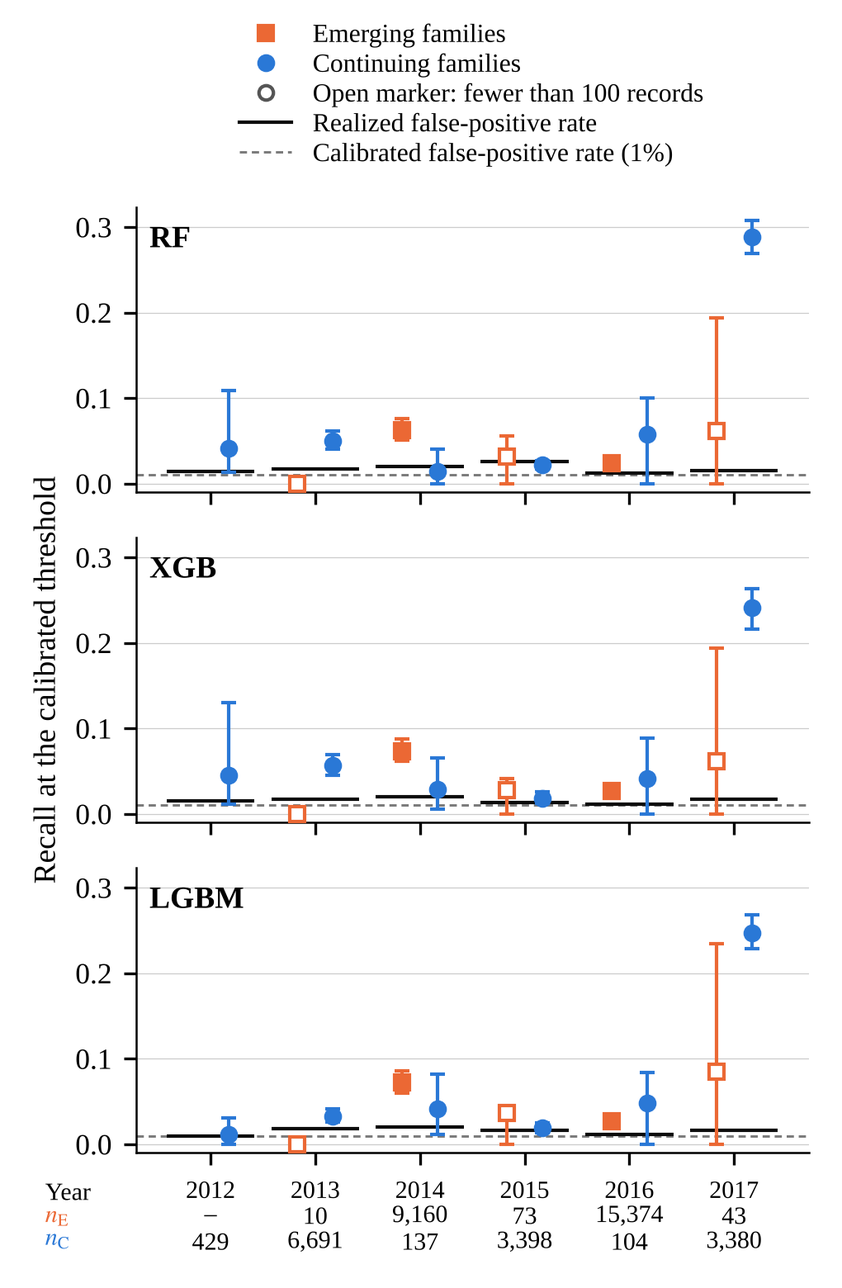
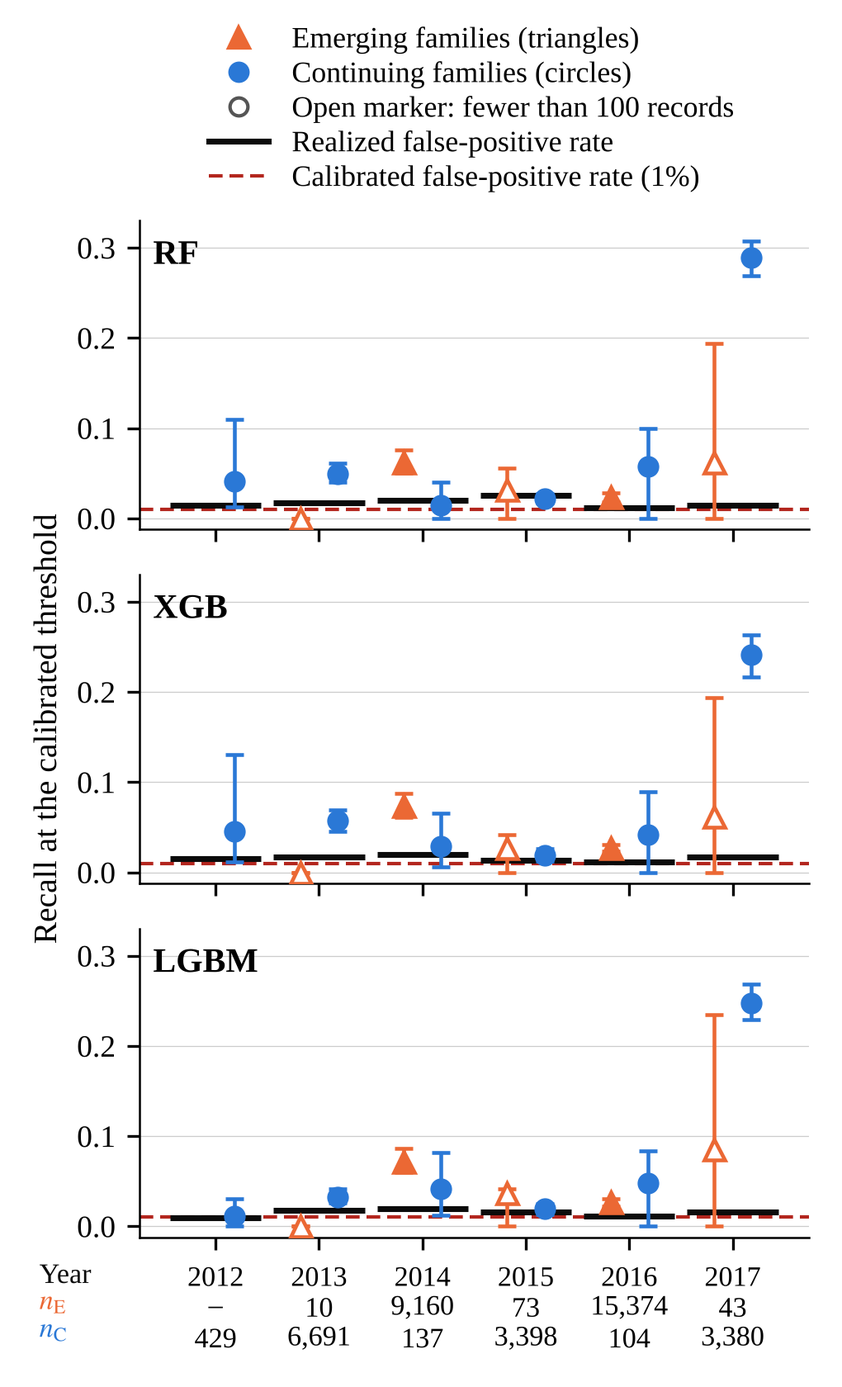
Final pre-submission revision: table layout, Fig. 5 legibility, clean-room check script
- Table XI in two panels (fixed boundary; pooled over six yearly origins) with intervals for every column
- Table VIII separates leak injection from address purge; Table IX reports the training partition in one column
- Table XIII uses the terms alerts, true alerts, false alerts; Table XV reports paired differences in units of 0.001
- Fig. 5: larger labels, triangles and circles for emerging and continuing families, calibrated rate in red
- scripts/cleanroom_check.sh makes the reproduction check repeatable

Claude-Session: https://claude.ai/code/session_01283w3BMNwE33DHc1dBmUwt

diff --git a/src/make_tables_figures.py b/src/make_tables_figures.py
@@ -83,28 +83,29 @@ def figures(FIG):
     # Fig. 5: combined protocol, recall for emerging and continuing families against the realized FPR, three tree ensembles,
     # pooled-bootstrap intervals; marker fill encodes the size of the group, tick labels give the number of records per group
     from matplotlib.lines import Line2D; plt.rcParams['mathtext.fontset'] = 'stix'
-    fig, axs = plt.subplots(3, 1, figsize=(3.4, 5.2), sharex=True, sharey=True); xs = np.arange(len(YEARS))
+    CAL = '#b3261e'      # calibrated FPR (dashed, red) against realized FPR (solid, black)
+    fig, axs = plt.subplots(3, 1, figsize=(3.4, 5.6), sharex=True, sharey=True); xs = np.arange(len(YEARS))
     for ax, mo in zip(axs, ENS):
-        ax.axhline(0.01, color='#7a7a7a', lw=0.7, ls=(0, (3, 2)), zorder=1)
-        for off, col, ncol, c, mk in ((-0.17, 'recall_emerging', 'n_emerging', COL[1], 's'), (0.17, 'recall_continuing', 'n_continuing', COL[0], 'o')):
+        ax.axhline(0.01, color=CAL, lw=1.0, ls=(0, (4, 2)), zorder=1)
+        for off, col, ncol, c, mk, ms_ in ((-0.18, 'recall_emerging', 'n_emerging', COL[1], '^', 6.0), (0.18, 'recall_continuing', 'n_continuing', COL[0], 'o', 5.2)):
             for i, t_ in enumerate(YEARS):
                 nn = cb(t_, mo, 'notime', ncol)
                 if nn <= 0: continue
                 v = cb(t_, mo, 'notime', col); lo, hi = cci(t_, mo, 'notime', col); big = nn >= 100
-                ax.errorbar(i + off, v, yerr=[[max(v - lo, 0)], [max(hi - v, 0)]], fmt=mk, ms=4.2, color=c, ecolor=c, elinewidth=1.0, capsize=2.2,
-                            mfc=c if big else 'white', mec=c, mew=1.0, zorder=3)
-        ax.hlines([cb(t_, mo, 'notime', 'fpr') for t_ in YEARS], xs - 0.42, xs + 0.42, color=INK, lw=1.0, zorder=2)
-        ax.text(0.02, 0.86, mo, transform=ax.transAxes, fontsize=9, fontweight='bold'); grid(ax); ax.set_xticks(xs); ax.set_ylim(bottom=-0.01)
+                ax.errorbar(i + off, v, yerr=[[max(v - lo, 0)], [max(hi - v, 0)]], fmt=mk, ms=ms_, color=c, ecolor=c, elinewidth=1.1, capsize=2.6,
+                            mfc=c if big else 'white', mec=c, mew=1.1, zorder=3)
+        ax.hlines([cb(t_, mo, 'notime', 'fpr') for t_ in YEARS], xs - 0.44, xs + 0.44, color=INK, lw=1.7, zorder=2)
+        ax.text(0.02, 0.86, mo, transform=ax.transAxes, fontsize=10, fontweight='bold'); grid(ax); ax.set_xticks(xs); ax.set_ylim(-0.012, 0.33); ax.set_yticks([0, 0.1, 0.2, 0.3])
+        ax.tick_params(axis='y', labelsize=9)
     lab_ = [f"{t_}\n{n(cb(t_, best, 'notime', 'n_emerging')) if cb(t_, best, 'notime', 'n_emerging') > 0 else '–'}\n{n(cb(t_, best, 'notime', 'n_continuing'))}" for t_ in YEARS]
-    axs[2].set_xticklabels(lab_, fontsize=7.2, linespacing=1.15)
-    axs[2].text(-0.135, -0.105, 'Year', transform=axs[2].transAxes, fontsize=7.2, ha='left', va='top')
-    axs[2].text(-0.135, -0.185, '$n_\\mathrm{E}$', transform=axs[2].transAxes, fontsize=7.2, ha='left', va='top', color=COL[1])
-    axs[2].text(-0.135, -0.265, '$n_\\mathrm{C}$', transform=axs[2].transAxes, fontsize=7.2, ha='left', va='top', color=COL[0])
-    axs[1].set_ylabel('Recall at the calibrated threshold')
-    hd = [Line2D([], [], marker='s', color=COL[1], ls='none', ms=4.2), Line2D([], [], marker='o', color=COL[0], ls='none', ms=4.2),
-          Line2D([], [], marker='o', color='#555555', mfc='white', ls='none', ms=4.2), Line2D([], [], color=INK, lw=1.0), Line2D([], [], color='#7a7a7a', lw=0.7, ls=(0, (3, 2)))]
-    fig.legend(hd, ['Emerging families', 'Continuing families', 'Open marker: fewer than 100 records', 'Realized false-positive rate', 'Calibrated false-positive rate (1%)'],
-               frameon=False, ncol=1, loc='upper center', fontsize=7.6, bbox_to_anchor=(0.56, 1.0), labelspacing=0.22)
+    axs[2].set_xticklabels(lab_, fontsize=8.2, linespacing=1.2)
+    for yy, tx, cc in ((-0.085, 'Year', INK), (-0.172, '$n_\\mathrm{E}$', COL[1]), (-0.262, '$n_\\mathrm{C}$', COL[0])):
+        axs[2].text(-0.15, yy, tx, transform=axs[2].transAxes, fontsize=8.2, ha='left', va='top', color=cc)
+    axs[1].set_ylabel('Recall at the calibrated threshold', fontsize=9.5)
+    hd = [Line2D([], [], marker='^', color=COL[1], ls='none', ms=6.0), Line2D([], [], marker='o', color=COL[0], ls='none', ms=5.2),
+          Line2D([], [], marker='o', color='#555555', mfc='white', ls='none', ms=5.2), Line2D([], [], color=INK, lw=1.7), Line2D([], [], color=CAL, lw=1.0, ls=(0, (4, 2)))]
+    fig.legend(hd, ['Emerging families (triangles)', 'Continuing families (circles)', 'Open marker: fewer than 100 records', 'Realized false-positive rate', 'Calibrated false-positive rate (1%)'],
+               frameon=False, ncol=1, loc='upper center', fontsize=8.6, bbox_to_anchor=(0.56, 1.0), labelspacing=0.25)
     fig.tight_layout(rect=(0, 0, 1, 0.865)); fig.savefig(FIG + 'f5.png', dpi=300); plt.close(fig)
 
 
@@ -134,48 +135,53 @@ def tables():
     rows7 += [['*Address-disjoint split*'] + [''] * 7] + [mrow('address', k) for k in MODELS]
     rows7 += [['*Temporal split*'] + [''] * 7, ['Majority', f3(1 - pi_T), '–', '0.000', '0.000', '0.000', f3(pi_T), '0.500'], ['Random', '0.500', f3(pi_T), '0.500', f3(f1_rand_T), '0.000', f3(pi_T), '0.500']] + [mrow('temporal', k) for k in MODELS]
     T['metrics'] = dict(cap='All Metrics for All Classifiers under the Main Protocols (All Features, Mean over Repetitions)', header=['Model', 'Acc.', 'Prec.', 'Rec.', 'F1', 'MCC', 'PR-AUC', 'ROC-AUC'], rows=rows7,
-                        widths=[1010, 540, 540, 540, 540, 540, 590, 620], opts=dict(sz=15),
+                        widths=[1040, 560, 560, 560, 560, 560, 580, 580], opts=dict(sz=16),
                         note='Acc. = accuracy; Prec. = precision; Rec. = recall. Precision, recall, F1, and MCC are computed at a threshold of 0.5. Majority = every record labeled white; Random = uniform random scores (expected values). The baselines of the address-disjoint split equal those of the random split to three decimals.')
     IJ, IJt, PGa, PGb = N['inject_all'], N['inject_notime'], N['purge_all'], N['purge_notime']
     def cis(d, lo, hi): return f'{sg(d, 3)} ({sg(lo, 3)} to {sg(hi, 3)})'
     def pp(p): return '< 0.001' if p < 0.001 else f'{p:.2f}'
-    T['overlap'] = dict(cap='Paired Tests of the Effect of Address Overlap on PR-AUC (XGB, Ten Splits)', header=['Experiment / features', 'With overlap', 'Without', 'Difference (95% CI)', '*p*'], widths=[1000, 620, 620, 1960, 700], opts=dict(sz=15), rows=[
-        ['Injection / All', f3(IJ['leaky']), f3(IJ['clean']), cis(IJ['mean'], *IJ['ci']), pp(IJ['p'])],
-        ['Injection / Topo.', f3(IJt['leaky']), f3(IJt['clean']), cis(IJt['mean'], *IJt['ci']), pp(IJt['p'])],
-        ['Purge / All', f3(PGa['full']), f3(PGa['purged']), cis(PGa['mean'], *PGa['ci']), pp(PGa['p'])],
-        ['Purge / Topo.', f3(PGb['full']), f3(PGb['purged']), cis(PGb['mean'], *PGb['ci']), pp(PGb['p'])]],
-        note=f'Both models of a pair are scored on identical test records. Injection (leak injection): same-address records are added to the training partition of an address-disjoint split, so both models are trained on repeated addresses ({WORD[IJt["n"]]} splits for the topological features). Purge (address purge): same-address records are deleted from the training partition of a random split, which also removes most repeated addresses from training. Difference = with overlap minus without, averaged over the splits; the 95% CI is the *t*-interval of the mean paired difference, so it describes the variation between splits; paired *t*-test.')
-    rows8 = [[fam(k), n(v.n_total), n(v.n_fit), n(v.n_val), n(v.n_test), f3(v.recall_known) + '\n(' + ci3(zci(k, 'known')) + ')', f3(v.recall_zero_day) + '\n(' + ci3(zci(k, 'withheld')) + ')'] for k, v in zf.iterrows()]
-    rows8 += [['Pooled, Eq. (2)', n(zf.n_total.sum()), n(zf.n_fit.sum()), n(zf.n_val.sum()), n(zf.n_test.sum()), f3(zk) + '\n(' + ci3(N['z_pool_known_ci']) + ')', f3(zz) + '\n(' + ci3(N['z_pool_zero_ci']) + ')'],
-              ['Macro average', '', '', '', '', f3(N['z_macro_known']) + '\n(' + ci3(N['z_macro_known_ci']) + ')', f3(N['z_macro_zero']) + '\n(' + ci3(N['z_macro_zero_ci']) + ')']]
-    T['withheld'] = dict(cap='Withheld-Family Protocol: Records per Family and Recall (95% CI) at a Validation-Calibrated 1% FPR', header=['Family', 'Total', 'Fit', 'Val.', 'Test', 'Known', 'Withheld'], rows=rows8,
-                         widths=[1050, 520, 520, 430, 520, 930, 930], opts=dict(sz=15),
-                         note=f'Total = ransomware records of the family in the complete dataset; Fit, Val., Test = mean number in the fitting, validation, and test parts over {WORD[N["z_seeds"]]} address-disjoint splits. Every test partition also contains about {n(N["z_white_test"])} white records, which determine the realized FPR. Known = family present in the fitting part; Withheld = family removed from it. Recall is the mean over the splits; the 95% CI is the percentile interval of the address-level bootstrap replicates pooled over the splits.')
+    T['overlap'] = dict(cap='Paired Tests of the Effect of Address Overlap on PR-AUC (XGB, Ten Splits)', header=['Features', 'With overlap', 'Without overlap', 'Difference (95% CI)', '*p*'], widths=[1000, 680, 760, 1860, 700], opts=dict(sz=16), rows=[
+        ['*Leak injection: same-address records added to the training partition of an address-disjoint split*', '', '', '', ''],
+        ['All', f3(IJ['leaky']), f3(IJ['clean']), cis(IJ['mean'], *IJ['ci']), pp(IJ['p'])],
+        ['Topological', f3(IJt['leaky']), f3(IJt['clean']), cis(IJt['mean'], *IJt['ci']), pp(IJt['p'])],
+        ['*Address purge: same-address records deleted from the training partition of a random split*', '', '', '', ''],
+        ['All', f3(PGa['full']), f3(PGa['purged']), cis(PGa['mean'], *PGa['ci']), pp(PGa['p'])],
+        ['Topological', f3(PGb['full']), f3(PGb['purged']), cis(PGb['mean'], *PGb['ci']), pp(PGb['p'])]],
+        note=f'Both models of a pair are scored on identical test records. Leak injection changes only the overlap: the address-disjoint training records are kept and the same-address records are added, so the difference measures the effect of overlap ({WORD[IJt["n"]]} splits for the topological features). Address purge changes the overlap and the training population at the same time, because the deletion removes most repeated-address ransomware records from training; its difference is therefore not a measure of leakage. Difference = with overlap minus without, averaged over the splits; the 95% CI is the *t*-interval of the mean paired difference, so it describes the variation between splits; paired *t*-test.')
+    rows8 = [[fam(k), n(v.n_total), n(v.n_fit + v.n_val), n(v.n_test), f3(v.recall_known) + '\n(' + ci3(zci(k, 'known')) + ')', f3(v.recall_zero_day) + '\n(' + ci3(zci(k, 'withheld')) + ')'] for k, v in zf.iterrows()]
+    rows8 += [['Pooled, Eq. (2)', n(zf.n_total.sum()), n(zf.n_fit.sum() + zf.n_val.sum()), n(zf.n_test.sum()), f3(zk) + '\n(' + ci3(N['z_pool_known_ci']) + ')', f3(zz) + '\n(' + ci3(N['z_pool_zero_ci']) + ')'],
+              ['Macro average', '–', '–', '–', f3(N['z_macro_known']) + '\n(' + ci3(N['z_macro_known_ci']) + ')', f3(N['z_macro_zero']) + '\n(' + ci3(N['z_macro_zero_ci']) + ')']]
+    T['withheld'] = dict(cap='Withheld-Family Protocol: Records per Family and Recall (95% CI) at a Validation-Calibrated 1% FPR', header=['Family', 'Total', 'Train', 'Test', 'Recall, known', 'Recall, withheld'], rows=rows8,
+                         widths=[1130, 570, 570, 570, 1080, 1080], opts=dict(sz=16),
+                         note=f'Total = ransomware records of the family in the complete dataset; Train, Test = mean number in the training partition (fitting and validation parts, divided 80%/20% by address) and in the test partition over {WORD[N["z_seeds"]]} address-disjoint splits. Every test partition also contains about {n(N["z_white_test"])} white records, which determine the realized FPR. Known = family present in the fitting part; Withheld = family removed from it. Recall is the mean over the splits; the 95% CI is the percentile interval of the address-level bootstrap replicates pooled over the splits.')
     rows9 = []
     for t_ in YEARS + [FIX]:
         r_, ra_ = ct.loc[t_], ca.loc[t_]
         rows9.append([t_.replace('-', '–'), n(r_.n_emerging), n(r_.n_continuing), f3(r_.base_rate), f3(ra_.pr_auc), f3(r_.pr_auc), pct(r_.fpr, 2).replace('%', ''), f3(r_.recall_emerging) if r_.n_emerging > 0 else '–', f3(r_.recall_continuing) if r_.n_continuing > 0 else '–'])
     T['combined'] = dict(cap=f'Combined Temporal, Address-Disjoint, and Emerging-Family Protocol ({best})', header=['Test', '*n*~E~', '*n*~C~', 'π', 'PR-AUC all', 'PR-AUC topo.', 'FPR (%)', '*R*~E~', '*R*~C~'], rows=rows9,
-                         widths=[760, 520, 520, 480, 560, 560, 520, 500, 500], opts=dict(sz=15),
+                         widths=[820, 560, 540, 460, 560, 560, 500, 500, 500], opts=dict(sz=16),
                          note='Training on all years before the test period; test records restricted to addresses unseen in training. *n*~E~, *n*~C~ = ransomware test records of emerging and continuing families; π = positive rate of the test partition. FPR, *R*~E~, and *R*~C~ = realized false-positive rate and recall on emerging and continuing families for the topological model at the threshold calibrated to 1% FPR on validation data. Means over three seeds; confidence intervals are given in Table XII and Fig. 5.')
     # combined protocol across classifiers (fixed boundary, topological features) with pooled-bootstrap intervals
-    rowsm = []
+    rowsm = []; nE6 = cpooled(best, 'notime', 'emerging', YEARS)[1]; nC6 = cpooled(best, 'notime', 'continuing', YEARS)[1]
+    def c2(v, c_, f=f3, sc=1.0): return f(v * sc) + '\n(' + f(c_[0] * sc) + '–' + f(c_[1] * sc) + ')'
+    rowsm.append([f'*(a) Training on 2011–2015, test on 2016–2018 ({n(ct.loc[FIX].n_emerging)} emerging-family and {n(ct.loc[FIX].n_continuing)} continuing-family records)*', '', '', '', ''])
     for k in MODELS:
-        def cell(mt, f=f3, sc=1.0):
-            v = cb(FIX, k, 'notime', mt) * sc; c_ = cci(FIX, k, 'notime', mt); return f(v) + '\n(' + f(c_[0] * sc) + '–' + f(c_[1] * sc) + ')'
-        rowsm.append([k, cell('pr_auc'), cell('recall_emerging'), cell('recall_continuing'), f2(100 * cb(FIX, k, 'notime', 'fpr')), f3(cpooled(k, 'notime', 'emerging', YEARS)[0]), f3(cpooled(k, 'notime', 'continuing', YEARS)[0])])
-    nE6 = cpooled(best, 'notime', 'emerging', YEARS)[1]; nC6 = cpooled(best, 'notime', 'continuing', YEARS)[1]
-    T['models'] = dict(cap='Combined Protocol for All Classifiers (Topological Features)', header=['Model', 'PR-AUC', '*R*~E~', '*R*~C~', 'FPR (%)', '*R*~E~^6^', '*R*~C~^6^'], rows=rowsm,
-                       widths=[530, 950, 950, 950, 520, 500, 500], opts=dict(sz=15),
-                       note=f'*R*~E~, *R*~C~ = recall on emerging-family and continuing-family records at the threshold calibrated to 1% FPR on validation data; FPR = realized false-positive rate on the test partition. Columns 2–5: training on 2011–2015 and testing on 2016–2018 ({n(ct.loc[FIX].n_emerging)} emerging-family and {n(ct.loc[FIX].n_continuing)} continuing-family records; positive rate {f3(ct.loc[FIX].base_rate)}); mean over three seeds, with the 95% CI of the pooled address-level bootstrap in parentheses (for the FPR the interval is at most ±0.1 percentage points and is omitted). *R*~E~^6^, *R*~C~^6^ = the same recalls pooled over the six yearly origins 2012–2017, i.e., detected records divided by all records of the group ({n(nE6)} emerging-family and {n(nC6)} continuing-family records).')
+        rowsm.append([k] + [c2(cb(FIX, k, 'notime', mt), cci(FIX, k, 'notime', mt)) for mt in ('pr_auc', 'recall_emerging', 'recall_continuing')] + [c2(cb(FIX, k, 'notime', 'fpr'), cci(FIX, k, 'notime', 'fpr'), f2, 100)])
+    rowsm.append([f'*(b) Pooled over the six yearly origins, test years 2012–2017 ({n(nE6)} emerging-family and {n(nC6)} continuing-family records)*', '', '', '', ''])
+    for k in MODELS:
+        fp6 = cpooled_fpr(k, 'notime', YEARS)
+        rowsm.append([k, '–', c2(cpooled(k, 'notime', 'emerging', YEARS)[0], cpooled_ci(k, 'notime', 'emerging', YEARS)), c2(cpooled(k, 'notime', 'continuing', YEARS)[0], cpooled_ci(k, 'notime', 'continuing', YEARS)), c2(fp6[0], fp6[1], f2, 100)])
+    T['models'] = dict(cap='Combined Protocol for All Classifiers (Topological Features)', header=['Model', 'PR-AUC', 'Emerging recall', 'Continuing recall', 'FPR (%)'], rows=rowsm,
+                       widths=[620, 1095, 1095, 1095, 1095], opts=dict(sz=16),
+                       note=f'Emerging recall, continuing recall = recall on emerging-family and continuing-family records (*R*~E~ and *R*~C~ of Table X) at the threshold calibrated to 1% FPR on validation data; FPR = realized false-positive rate on the test partition. Values are means over three seeds, with the 95% CI of the address-level bootstrap pooled over the seeds in parentheses. Panel (a): fixed boundary, positive rate {f3(ct.loc[FIX].base_rate)}. Panel (b): detected records of the six test years divided by all records of the group, and false alerts divided by all white test records; PR-AUC is not pooled, because the positive rate differs between the years (Table X).')
     # family-level recall and feature drift under the combined protocol
     rowsf = []; g = DR[DR.test.isin(YEARS) & DR.status.isin(['emerging', 'continuing']) & (DR.n_test >= 100)]
     for _, d_ in g.iterrows():
         cf_ = cfam(d_.test, best, 'notime', d_.group)
         rowsf.append([d_.test, fam(d_.group), 'E' if d_.status == 'emerging' else 'C', n(d_.n_test), f3(cf_['recall']) + '\n(' + ci3(cf_['ci']) + ')', f3(d_.ks_mean), f3(d_.c2st_auc) + '\n(' + ci3((d_.c2st_lo, d_.c2st_hi)) + ')'])
     T['families'] = dict(cap=f'Combined Protocol by Family: Recall of {best} (95% CI) and Feature Drift Relative to the Training Data', header=['Test', 'Family', 'Type', '*n*', 'Recall (95% CI)', 'KS', 'AUC (95% CI)'], rows=rowsf,
-                         widths=[420, 1060, 460, 500, 960, 440, 960], opts=dict(sz=15, left=2),
-                         note='Families with at least 100 test records. E = emerging, C = continuing; *n* = test records with an address unseen in training. Drift is measured between the test records and their reference in the training years (the same family for C, all ransomware for E): KS = Kolmogorov-Smirnov statistic averaged over the six topological features; AUC = ROC-AUC of a classifier two-sample test that separates test from reference records (0.5 = indistinguishable), with three-fold cross-validation in which all records of an address fall into the same fold; the 95% CI is a cluster bootstrap over addresses of the out-of-fold scores.')
+                         widths=[420, 1120, 450, 480, 1030, 470, 1030], opts=dict(sz=16, left=2),
+                         note='Families with at least 100 test records. E = emerging, C = continuing; *n* = test records with an address unseen in training. Drift is measured between the test records and their reference in the training years (the same family for C, all ransomware for E): KS = Kolmogorov–Smirnov statistic averaged over the six topological features; AUC = ROC-AUC of a classifier two-sample test that separates test from reference records (0.5 = indistinguishable), with three-fold cross-validation in which all records of an address fall into the same fold; the 95% CI is a cluster bootstrap over addresses of the out-of-fold scores.')
     # operational measures at the validation-calibrated operating point
     rowso = []
     def orow(k, src, fs):
@@ -184,9 +190,9 @@ def tables():
     o_r0, o_c0 = opst('random', best, 'all'), opst('combined', best, 'all', FIX)
     for lab_, src, fs, o_ in (('*Random split, all features*', 'random', 'all', o_r0), ('*Combined protocol 2016–2018, all features*', 'combined', 'all', o_c0), ('*Combined protocol 2016–2018, topological features*', 'combined', 'notime', o_c0)):
         rowso.append([lab_ + f' ({n(o_["n_test"])} test records, {n(o_["n_pos"])} ransomware)'] + [''] * 6); rowso += [orow(k, src, fs) for k in ENS]
-    T['operational'] = dict(cap='Operational Measures at the Threshold Calibrated to a 1% FPR on Validation Data', header=['Model', 'Alerts per 1,000', 'False positives per 1,000', 'Precision', 'Recall', 'False alerts per true alert', 'Alerts per split (true)'], rows=rowso,
-                            widths=[560, 580, 720, 700, 560, 700, 1080], opts=dict(sz=15),
-                            note='Denominator of the per-1,000 measures = all test records of the protocol (white and ransomware). Alerts = test records scored above the threshold; false positives = white records among them; true alerts = ransomware records among them. Precision = true alerts / alerts; recall = true alerts / ransomware test records; false alerts per true alert = false positives / true alerts. All rates and ratios are computed from the counts summed over three seeds before rounding; the last column gives the mean number of alerts per split, with the true alerts in parentheses.')
+    T['operational'] = dict(cap='Operational Measures at the Threshold Calibrated to a 1% FPR on Validation Data', header=['Model', 'Alerts per 1,000', 'False alerts per 1,000', 'Precision', 'Recall', 'False alerts per true alert', 'Alerts per split (true alerts)'], rows=rowso,
+                            widths=[570, 580, 640, 800, 600, 640, 1170], opts=dict(sz=16),
+                            note='Denominator of the per-1,000 measures = all test records of the protocol (white and ransomware). Alerts = test records scored above the threshold; false alerts = white records among them (false positives); true alerts = ransomware records among them. Precision = true alerts / alerts; recall = true alerts / ransomware test records. All rates and ratios are computed from the counts summed over three seeds before rounding; the last column gives the mean number of alerts per split, with the true alerts in parentheses.')
     rowsw = []
     for fs, fl in (('all', 'All'), ('notime', 'Topo.')):
         for s_, sl in (('random', 'Random'), ('address', 'Address'), ('temporal', 'Temporal')):
@@ -194,20 +200,20 @@ def tables():
     T['weighting'] = dict(cap=f'{best} with Class Weighting', header=['Features / split', 'PR-AUC (unw.)', 'PR-AUC (w.)', 'Prec. (w.)', 'Recall (w.)'], rows=rowsw, widths=[1400, 950, 900, 800, 850],
                           note='unw. = unweighted model; w. = positive class weighted by the ratio of negative to positive training records. Both columns are means over the same three seeds; Tables VI and VII report ten splits for the random and address-disjoint protocols.')
     # sensitivity of the uncertainty estimates
-    def srow(label, d, f=f3):
-        lo_, hi_ = d['pooled_ci']; inc = [c_ for c_ in d['cis']]
-        def rg(a, b): return f(a) + (' to ' if a < 0 or b < 0 else '–') + f(b)
-        return [label, str(d['k']), f(d['mean']) + '\n(' + rg(lo_, hi_) + ')', rg(d['pts_min'], d['pts_max']), f'{d["sd_between"]:.4f}', f'{d["se_within"]:.4f}',
-                rg(min(c_[0] for c_ in inc), max(c_[1] for c_ in inc))]
+    def srow(label, d, f=f3, sc=1.0):
+        lo_, hi_ = d['pooled_ci']; inc = [c_ for c_ in d['cis']]; fs_ = (lambda v: f'{v * sc:.4f}') if sc == 1.0 else (lambda v: f'{v * sc:.1f}')
+        def rg(a, b): return f(a * sc) + (' to ' if a < 0 or b < 0 else '–') + f(b * sc)
+        return [label, str(d['k']), f(d['mean'] * sc) + '\n(' + rg(lo_, hi_) + ')', fs_(d['sd_between']), fs_(d['se_within']), rg(min(c_[0] for c_ in inc), max(c_[1] for c_ in inc))]
+    def f1s(v): return sg(v, 1)
     def f4(v): return sg(v, 4)
     SENS = [('Withheld family, known (LGBM)', z_sens('known'), f3), ('Withheld family, withheld (LGBM)', z_sens('withheld'), f3),
             ('Combined 2016–2018, PR-AUC (XGB)', c_sens(FIX, best, 'notime', 'pr_auc'), f3), ('Combined 2016–2018, *R*~E~ (XGB)', c_sens(FIX, best, 'notime', 'recall_emerging'), f3),
             ('Combined 2014, *R*~E~ (XGB)', c_sens('2014', best, 'notime', 'recall_emerging'), f3), ('Combined 2017, *R*~C~ (XGB)', c_sens('2017', best, 'notime', 'recall_continuing'), f3),
-            ('ΔPR-AUC RF − XGB, 2016–2018', c_sens(FIX, 'RF', 'notime', 'pr_auc', minus=(best, 'notime')), f4), ('ΔPR-AUC LGBM − XGB, 2016–2018', c_sens(FIX, 'LGBM', 'notime', 'pr_auc', minus=(best, 'notime')), f4)]
+            ('ΔPR-AUC × 10^3^, RF − XGB, 2016–2018', c_sens(FIX, 'RF', 'notime', 'pr_auc', minus=(best, 'notime')), f1s), ('ΔPR-AUC × 10^3^, LGBM − XGB, 2016–2018', c_sens(FIX, 'LGBM', 'notime', 'pr_auc', minus=(best, 'notime')), f1s)]
     T['sens_raw'] = SENS
-    T['sensitivity'] = dict(cap='Between-Repetition Variation and Sampling Uncertainty of Key Estimates (Topological Features)', header=['Estimate', '*k*', 'Mean (pooled 95% CI)', 'Range over repetitions', 'SD between', 'SE within', 'Per-repet. 95% CIs'], rows=[srow(a, b, f) for a, b, f in SENS],
-                            widths=[1130, 200, 860, 740, 600, 600, 770], opts=dict(sz=14, left=1),
-                            note='*k* = number of repetitions (address-disjoint splits for the withheld-family protocol, seeds for the combined protocol). SD between = standard deviation of the point estimates over the repetitions; SE within = mean standard deviation of the address-level bootstrap replicates within one repetition; per-repetition 95% CIs = lowest lower and highest upper limit of the intervals computed separately for each repetition. Δ = paired difference on identical resamples.')
+    T['sensitivity'] = dict(cap='Between-Repetition Variation and Sampling Uncertainty of Key Estimates (Topological Features)', header=['Estimate', '*k*', 'Mean (pooled 95% CI)', 'SD between', 'SE within', 'Per-repetition 95% CIs'], rows=[srow(a, b, f, 1000.0 if f is f1s else 1.0) for a, b, f in SENS],
+                            widths=[1330, 230, 1130, 640, 600, 1070], opts=dict(sz=16, left=1),
+                            note='*k* = number of repetitions (address-disjoint splits for the withheld-family protocol, seeds for the combined protocol). SD between = standard deviation of the point estimates over the repetitions; SE within = mean standard deviation of the address-level bootstrap replicates within one repetition; per-repetition 95% CIs = lowest lower and highest upper limit of the intervals computed separately for each repetition. Δ = paired difference on identical resamples, given in units of 0.001.')
     return T
 
 if __name__ == '__main__':

diff --git a/src/msstats.py b/src/msstats.py
@@ -112,6 +112,28 @@ def cpooled(model, fs, group, tags):
     g = CB[(CB.model == model) & (CB.fs == fs) & CB.test.isin(tags)]; ncol = 'n_' + group; rcol = 'recall_' + group
     g = g[g[ncol] > 0]; ps = g.groupby('seed').apply(lambda d: (d[rcol] * d[ncol]).sum() / d[ncol].sum())
     return float(ps.mean()), float(g.groupby('test')[ncol].mean().sum())
+def cpooled_ci(model, fs, group, tags):
+    """95% CI of the recall pooled over several test periods. The test partitions of different years share no address, so their
+    bootstrap replicates are independent; replicate b of the pooled recall is the average of the yearly replicates b weighted by
+    the (fixed) number of records of the group, and the replicates of the seeds are pooled."""
+    ncol = 'n_' + group; rcol = 'recall_' + group; reps = []
+    for s_ in CSEEDS:
+        num = 0.0; den = 0.0
+        for t_ in tags:
+            r_ = CB[(CB.test == t_) & (CB.model == model) & (CB.fs == fs) & (CB.seed == s_)].iloc[0]
+            if r_[ncol] <= 0: continue
+            num = num + r_[ncol] * np.nan_to_num(CBB[f'{t_}|{s_}|{model}|{fs}|{rcol}'], nan=r_[rcol]); den += r_[ncol]
+        reps.append(num / den)
+    return pci(np.concatenate(reps))
+def cpooled_fpr(model, fs, tags):
+    """Realized FPR pooled over several test periods (false alerts divided by white test records, summed over periods and seeds) and its 95% CI."""
+    g = CB[(CB.model == model) & (CB.fs == fs) & CB.test.isin(tags)]; reps = []
+    for s_ in CSEEDS:
+        num = 0.0; den = 0.0
+        for t_ in tags:
+            r_ = g[(g.test == t_) & (g.seed == s_)].iloc[0]; num = num + r_.n_white_test * CBB[f'{t_}|{s_}|{model}|{fs}|fpr']; den += r_.n_white_test
+        reps.append(num / den)
+    return float(g.fp.sum() / g.n_white_test.sum()), pci(np.concatenate(reps))
 def opr(model, fs, col): return OPR[(OPR.model == model) & (OPR.fs == fs)][col].mean()
 def opst(src, model, fs, tag=None):
     """Operational measures from counts pooled over the repetitions (ratios of sums, so that every rate and ratio uses the same

diff --git a/figures/tables.md b/figures/tables.md
@@ -61,31 +61,33 @@ Acc. = accuracy; Prec. = precision; Rec. = recall. Precision, recall, F1, and MC
 
 ### Table VIII. Paired Tests of the Effect of Address Overlap on PR-AUC (XGB, Ten Splits)
 
-| Experiment / features | With overlap | Without | Difference (95% CI) | p |
+| Features | With overlap | Without overlap | Difference (95% CI) | p |
 |---|---|---|---|---|
-| Injection / All | 0.510 | 0.511 | −0.001 (−0.004 to +0.003) | 0.65 |
-| Injection / Topo. | 0.138 | 0.143 | −0.005 (−0.006 to −0.003) | < 0.001 |
-| Purge / All | 0.495 | 0.413 | +0.082 (+0.079 to +0.085) | < 0.001 |
-| Purge / Topo. | 0.143 | 0.117 | +0.026 (+0.025 to +0.027) | < 0.001 |
+| Leak injection: same-address records added to the training partition of an address-disjoint split |  |  |  |  |
+| All | 0.510 | 0.511 | −0.001 (−0.004 to +0.003) | 0.65 |
+| Topological | 0.138 | 0.143 | −0.005 (−0.006 to −0.003) | < 0.001 |
+| Address purge: same-address records deleted from the training partition of a random split |  |  |  |  |
+| All | 0.495 | 0.413 | +0.082 (+0.079 to +0.085) | < 0.001 |
+| Topological | 0.143 | 0.117 | +0.026 (+0.025 to +0.027) | < 0.001 |
 
-Both models of a pair are scored on identical test records. Injection (leak injection): same-address records are added to the training partition of an address-disjoint split, so both models are trained on repeated addresses (five splits for the topological features). Purge (address purge): same-address records are deleted from the training partition of a random split, which also removes most repeated addresses from training. Difference = with overlap minus without; paired t-test.
+Both models of a pair are scored on identical test records. Leak injection changes only the overlap: the address-disjoint training records are kept and the same-address records are added, so the difference measures the effect of overlap (five splits for the topological features). Address purge changes the overlap and the training population at the same time, because the deletion removes most repeated-address ransomware records from training; its difference is therefore not a measure of leakage. Difference = with overlap minus without, averaged over the splits; the 95% CI is the t-interval of the mean paired difference, so it describes the variation between splits; paired t-test.
 
 ### Table IX. Withheld-Family Protocol: Records per Family and Recall (95% CI) at a Validation-Calibrated 1% FPR
 
-| Family | Total | Fit | Val. | Test | Known | Withheld |
-|---|---|---|---|---|---|---|
-| CryptoWall | 12,390 | 6,847 | 1,851 | 3,692 | 0.074 (0.053–0.103) | 0.021 (0.014–0.033) |
-| CryptoLocker | 9,315 | 5,118 | 1,194 | 3,003 | 0.056 (0.040–0.077) | 0.031 (0.021–0.043) |
-| Cerber | 9,223 | 5,158 | 1,297 | 2,767 | 0.322 (0.293–0.347) | 0.004 (0.002–0.008) |
-| Locky | 6,625 | 3,724 | 926 | 1,975 | 0.287 (0.263–0.316) | 0.026 (0.018–0.035) |
-| CryptXXX | 2,419 | 1,359 | 352 | 708 | 0.727 (0.675–0.780) | 0.005 (0.000–0.015) |
-| NoobCrypt | 483 | 285 | 37 | 160 | 0.036 (0.000–0.080) | 0.027 (0.000–0.057) |
-| DMALockerv3 | 354 | 178 | 81 | 94 | 0.150 (0.000–0.390) | 0.144 (0.000–0.359) |
-| DMALocker | 251 | 107 | 45 | 99 | 0.166 (0.000–0.307) | 0.165 (0.000–0.307) |
-| Pooled, Eq. (2) | 41,060 | 22,776 | 5,786 | 12,498 | 0.196 (0.175–0.230) | 0.021 (0.017–0.026) |
-| Macro average |  |  |  |  | 0.227 (0.195–0.266) | 0.053 (0.019–0.092) |
+| Family | Total | Train | Test | Recall, known | Recall, withheld |
+|---|---|---|---|---|---|
+| CryptoWall | 12,390 | 8,698 | 3,692 | 0.074 (0.053–0.103) | 0.021 (0.014–0.033) |
+| CryptoLocker | 9,315 | 6,312 | 3,003 | 0.056 (0.040–0.077) | 0.031 (0.021–0.043) |
+| Cerber | 9,223 | 6,456 | 2,767 | 0.322 (0.293–0.347) | 0.004 (0.002–0.008) |
+| Locky | 6,625 | 4,650 | 1,975 | 0.287 (0.263–0.316) | 0.026 (0.018–0.035) |
+| CryptXXX | 2,419 | 1,711 | 708 | 0.727 (0.675–0.780) | 0.005 (0.000–0.015) |
+| NoobCrypt | 483 | 323 | 160 | 0.036 (0.000–0.080) | 0.027 (0.000–0.057) |
+| DMALockerv3 | 354 | 260 | 94 | 0.150 (0.000–0.390) | 0.144 (0.000–0.359) |
+| DMALocker | 251 | 152 | 99 | 0.166 (0.000–0.307) | 0.165 (0.000–0.307) |
+| Pooled, Eq. (2) | 41,060 | 28,562 | 12,498 | 0.196 (0.175–0.230) | 0.021 (0.017–0.026) |
+| Macro average | – | – | – | 0.227 (0.195–0.266) | 0.053 (0.019–0.092) |
 
-Total = ransomware records of the family in the complete dataset; Fit, Val., Test = mean number in the fitting, validation, and test parts over five address-disjoint splits. Every test partition also contains about 862,653 white records, which determine the realized FPR. Known = family present in the fitting part; Withheld = family removed from it. Recall is the mean over the splits; the 95% CI is the percentile interval of the address-level bootstrap replicates pooled over the splits.
+Total = ransomware records of the family in the complete dataset; Train, Test = mean number in the training partition (fitting and validation parts, divided 80%/20% by address) and in the test partition over five address-disjoint splits. Every test partition also contains about 862,653 white records, which determine the realized FPR. Known = family present in the fitting part; Withheld = family removed from it. Recall is the mean over the splits; the 95% CI is the percentile interval of the address-level bootstrap replicates pooled over the splits.
 
 ### Table X. Combined Temporal, Address-Disjoint, and Emerging-Family Protocol (XGB)
 
@@ -103,15 +105,22 @@ Training on all years before the test period; test records restricted to address
 
 ### Table XI. Combined Protocol for All Classifiers (Topological Features)
 
-| Model | PR-AUC | RE | RC | FPR (%) | RE^6^ | RC^6^ |
-|---|---|---|---|---|---|---|
-| LR | 0.015 (0.015–0.016) | 0.009 (0.008–0.011) | 0.019 (0.000–0.052) | 1.58 | 0.020 | 0.043 |
-| DT | 0.023 (0.022–0.024) | 0.018 (0.013–0.023) | 0.022 (0.000–0.051) | 1.24 | 0.025 | 0.068 |
-| RF | 0.025 (0.025–0.026) | 0.020 (0.016–0.024) | 0.058 (0.000–0.099) | 1.17 | 0.038 | 0.100 |
-| XGB | 0.027 (0.026–0.028) | 0.023 (0.020–0.026) | 0.042 (0.000–0.088) | 1.10 | 0.044 | 0.091 |
-| LGBM | 0.026 (0.025–0.027) | 0.023 (0.019–0.026) | 0.048 (0.000–0.083) | 1.05 | 0.044 | 0.080 |
+| Model | PR-AUC | Emerging recall | Continuing recall | FPR (%) |
+|---|---|---|---|---|
+| (a) Training on 2011–2015, test on 2016–2018 (18,851 emerging-family and 104 continuing-family records) |  |  |  |  |
+| LR | 0.015 (0.015–0.016) | 0.009 (0.008–0.011) | 0.019 (0.000–0.052) | 1.58 (1.50–1.63) |
+| DT | 0.023 (0.022–0.024) | 0.018 (0.013–0.023) | 0.022 (0.000–0.051) | 1.24 (1.18–1.34) |
+| RF | 0.025 (0.025–0.026) | 0.020 (0.016–0.024) | 0.058 (0.000–0.099) | 1.17 (1.10–1.25) |
+| XGB | 0.027 (0.026–0.028) | 0.023 (0.020–0.026) | 0.042 (0.000–0.088) | 1.10 (1.02–1.17) |
+| LGBM | 0.026 (0.025–0.027) | 0.023 (0.019–0.026) | 0.048 (0.000–0.083) | 1.05 (0.97–1.13) |
+| (b) Pooled over the six yearly origins, test years 2012–2017 (24,660 emerging-family and 14,139 continuing-family records) |  |  |  |  |
+| LR | – | 0.020 (0.014–0.030) | 0.043 (0.031–0.058) | 1.78 (1.68–1.86) |
+| DT | – | 0.025 (0.021–0.029) | 0.068 (0.062–0.074) | 1.29 (1.25–1.37) |
+| RF | – | 0.038 (0.031–0.044) | 0.100 (0.093–0.108) | 1.75 (1.70–1.82) |
+| XGB | – | 0.044 (0.039–0.050) | 0.091 (0.083–0.099) | 1.57 (1.49–1.64) |
+| LGBM | – | 0.044 (0.038–0.050) | 0.080 (0.075–0.087) | 1.52 (1.50–1.54) |
 
-RE, RC = recall on emerging-family and continuing-family records at the threshold calibrated to 1% FPR on validation data; FPR = realized false-positive rate on the test partition. Columns 2–5: training on 2011–2015 and testing on 2016–2018 (18,851 emerging-family and 104 continuing-family records; positive rate 0.018); mean over three seeds, with the 95% CI of the pooled address-level bootstrap in parentheses (for the FPR the interval is at most ±0.1 percentage points and is omitted). RE^6^, RC^6^ = the same recalls pooled over the six yearly origins 2012–2017, i.e., detected records divided by all records of the group (24,660 emerging-family and 14,139 continuing-family records).
+Emerging recall, continuing recall = recall on emerging-family and continuing-family records (RE and RC of Table X) at the threshold calibrated to 1% FPR on validation data; FPR = realized false-positive rate on the test partition. Values are means over three seeds, with the 95% CI of the address-level bootstrap pooled over the seeds in parentheses. Panel (a): fixed boundary, positive rate 0.018. Panel (b): detected records of the six test years divided by all records of the group, and false alerts divided by all white test records; PR-AUC is not pooled, because the positive rate differs between the years (Table X).
 
 ### Table XII. Combined Protocol by Family: Recall of XGB (95% CI) and Feature Drift Relative to the Training Data
 
@@ -130,11 +139,11 @@ RE, RC = recall on emerging-family and continuing-family records at the threshol
 | 2017 | DMALockerv3 | C | 129 | 0.072 (0.009–0.160) | 0.130 | 0.598 (0.401–0.787) |
 | 2017 | Cerber | C | 3,180 | 0.247 (0.221–0.270) | 0.115 | 0.850 (0.842–0.857) |
 
-Families with at least 100 test records. E = emerging, C = continuing; n = test records with an address unseen in training. Drift is measured between the test records and their reference in the training years (the same family for C, all ransomware for E): KS = Kolmogorov-Smirnov statistic averaged over the six topological features; AUC = ROC-AUC of a classifier two-sample test that separates test from reference records (0.5 = indistinguishable), with three-fold cross-validation in which all records of an address fall into the same fold; the 95% CI is a cluster bootstrap over addresses of the out-of-fold scores.
+Families with at least 100 test records. E = emerging, C = continuing; n = test records with an address unseen in training. Drift is measured between the test records and their reference in the training years (the same family for C, all ransomware for E): KS = Kolmogorov–Smirnov statistic averaged over the six topological features; AUC = ROC-AUC of a classifier two-sample test that separates test from reference records (0.5 = indistinguishable), with three-fold cross-validation in which all records of an address fall into the same fold; the 95% CI is a cluster bootstrap over addresses of the out-of-fold scores.
 
 ### Table XIII. Operational Measures at the Threshold Calibrated to a 1% FPR on Validation Data
 
-| Model | Alerts per 1,000 | False positives per 1,000 | Precision | Recall | False alerts per true alert | Alerts per split (true) |
+| Model | Alerts per 1,000 | False alerts per 1,000 | Precision | Recall | False alerts per true alert | Alerts per split (true alerts) |
 |---|---|---|---|---|---|---|
 | Random split, all features (875,010 test records, 12,424 ransomware) |  |  |  |  |  |  |
 | RF | 16.82 | 9.82 | 0.416 | 0.493 | 1.4 | 14,716 (6,125) |
@@ -149,7 +158,7 @@ Families with at least 100 test records. E = emerging, C = continuing; n = test 
 | XGB | 11.18 | 10.77 | 0.037 | 0.023 | 26.2 | 11,942 (439) |
 | LGBM | 10.77 | 10.36 | 0.038 | 0.023 | 25.5 | 11,504 (434) |
 
-Denominator of the per-1,000 measures = all test records of the protocol (white and ransomware). Alerts = test records scored above the threshold; false positives = white records among them; true alerts = ransomware records among them. Precision = true alerts / alerts; recall = true alerts / ransomware test records; false alerts per true alert = false positives / true alerts. All rates and ratios are computed from the counts summed over three seeds before rounding; the last column gives the mean number of alerts per split, with the true alerts in parentheses.
+Denominator of the per-1,000 measures = all test records of the protocol (white and ransomware). Alerts = test records scored above the threshold; false alerts = white records among them (false positives); true alerts = ransomware records among them. Precision = true alerts / alerts; recall = true alerts / ransomware test records. All rates and ratios are computed from the counts summed over three seeds before rounding; the last column gives the mean number of alerts per split, with the true alerts in parentheses.
 
 ### Table XIV. XGB with Class Weighting
 
@@ -166,18 +175,18 @@ unw. = unweighted model; w. = positive class weighted by the ratio of negative t
 
 ### Table XV. Between-Repetition Variation and Sampling Uncertainty of Key Estimates (Topological Features)
 
-| Estimate | k | Mean (pooled 95% CI) | Range over repetitions | SD between | SE within | Per-repet. 95% CIs |
-|---|---|---|---|---|---|---|
-| Withheld family, known (LGBM) | 5 | 0.196 (0.175–0.230) | 0.186–0.222 | 0.0145 | 0.0074 | 0.169–0.236 |
-| Withheld family, withheld (LGBM) | 5 | 0.021 (0.017–0.026) | 0.019–0.022 | 0.0013 | 0.0021 | 0.016–0.027 |
-| Combined 2016–2018, PR-AUC (XGB) | 3 | 0.027 (0.026–0.028) | 0.027–0.027 | 0.0004 | 0.0004 | 0.026–0.028 |
-| Combined 2016–2018, RE (XGB) | 3 | 0.023 (0.020–0.026) | 0.021–0.025 | 0.0015 | 0.0012 | 0.019–0.027 |
-| Combined 2014, RE (XGB) | 3 | 0.074 (0.061–0.088) | 0.072–0.075 | 0.0014 | 0.0065 | 0.060–0.088 |
-| Combined 2017, RC (XGB) | 3 | 0.241 (0.216–0.263) | 0.226–0.250 | 0.0130 | 0.0075 | 0.212–0.266 |
-| ΔPR-AUC RF − XGB, 2016–2018 | 3 | −0.0015 (−0.0023 to −0.0005) | −0.0021 to −0.0007 | 0.0007 | 0.0002 | −0.0024 to −0.0004 |
-| ΔPR-AUC LGBM − XGB, 2016–2018 | 3 | −0.0007 (−0.0010 to −0.0003) | −0.0009 to −0.0004 | 0.0002 | 0.0001 | −0.0011 to −0.0003 |
+| Estimate | k | Mean (pooled 95% CI) | SD between | SE within | Per-repetition 95% CIs |
+|---|---|---|---|---|---|
+| Withheld family, known (LGBM) | 5 | 0.196 (0.175–0.230) | 0.0145 | 0.0074 | 0.169–0.236 |
+| Withheld family, withheld (LGBM) | 5 | 0.021 (0.017–0.026) | 0.0013 | 0.0021 | 0.016–0.027 |
+| Combined 2016–2018, PR-AUC (XGB) | 3 | 0.027 (0.026–0.028) | 0.0004 | 0.0004 | 0.026–0.028 |
+| Combined 2016–2018, RE (XGB) | 3 | 0.023 (0.020–0.026) | 0.0015 | 0.0012 | 0.019–0.027 |
+| Combined 2014, RE (XGB) | 3 | 0.074 (0.061–0.088) | 0.0014 | 0.0065 | 0.060–0.088 |
+| Combined 2017, RC (XGB) | 3 | 0.241 (0.216–0.263) | 0.0130 | 0.0075 | 0.212–0.266 |
+| ΔPR-AUC × 10^3^, RF − XGB, 2016–2018 | 3 | −1.5 (−2.3 to −0.5) | 0.7 | 0.2 | −2.4 to −0.4 |
+| ΔPR-AUC × 10^3^, LGBM − XGB, 2016–2018 | 3 | −0.7 (−1.0 to −0.3) | 0.2 | 0.1 | −1.1 to −0.3 |
 
-k = number of repetitions (address-disjoint splits for the withheld-family protocol, seeds for the combined protocol). SD between = standard deviation of the point estimates over the repetitions; SE within = mean standard deviation of the address-level bootstrap replicates within one repetition; per-repetition 95% CIs = lowest lower and highest upper limit of the intervals computed separately for each repetition. Δ = paired difference on identical resamples.
+k = number of repetitions (address-disjoint splits for the withheld-family protocol, seeds for the combined protocol). SD between = standard deviation of the point estimates over the repetitions; SE within = mean standard deviation of the address-level bootstrap replicates within one repetition; per-repetition 95% CIs = lowest lower and highest upper limit of the intervals computed separately for each repetition. Δ = paired difference on identical resamples, given in units of 0.001.
 
 ### Statistics quoted in the text
 

diff --git a/README.md b/README.md
@@ -25,7 +25,8 @@ CSV file with the scripts in `src/`.
 | `src/make_tables_figures.py`, `src/msstats.py` | Regenerate Tables V-XV, Figs. 1-5, and every statistic quoted in the text from the result files |
 | `config/models.json` | Complete model, preprocessing, seed, calibration, and bootstrap configuration |
 | `splits/manifest.csv` | Size, number of ransomware records, and SHA-256 checksum of every index array |
-| `results/` | Result files produced by the six experiment scripts (inputs of the tables and figures) |
+| `results/` | Result files produced by the experiment scripts (inputs of the tables and figures) |
+| `scripts/cleanroom_check.sh` | Clean-room reproduction check (fresh clone and environment) |
 | `figures/` | `f1.png` ... `f5.png` (Figs. 1-5) and `tables.md` as generated by `make_tables_figures.py` |
 
 ## Data
@@ -116,6 +117,10 @@ cores, `pip install -r requirements.txt`; the resulting environment is listed in
 | `06_combined_drift.py` rerun on the raw CSV, against `results/combined_drift.csv` | identical |
 | `04_overlap_isolation.py` rerun on the raw CSV (20 XGBoost fits), against `results/inject.csv`, `purge_groups.csv`, `inject_bootstrap.json` | identical to the last digit |
 | `make_splits.py`, against `splits/manifest.csv` | identical SHA-256 checksums for every index array |
+
+The check can be repeated with `scripts/cleanroom_check.sh <path-to-BitcoinHeistData.csv> <empty-work-directory>`
+(add `quick` to regenerate only the tables and figures from the committed result files). The table check was
+repeated on 18 November 2026 after the tables were reformatted.
 
 The remaining experiment scripts use the same seeds and library versions; together they take about 6.5 hours on
 the hardware above.
